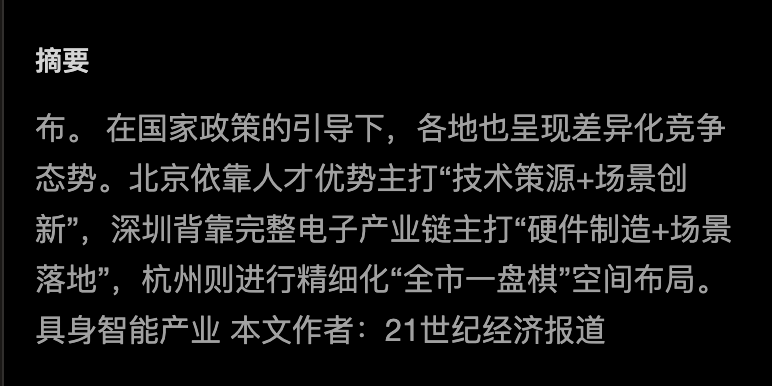
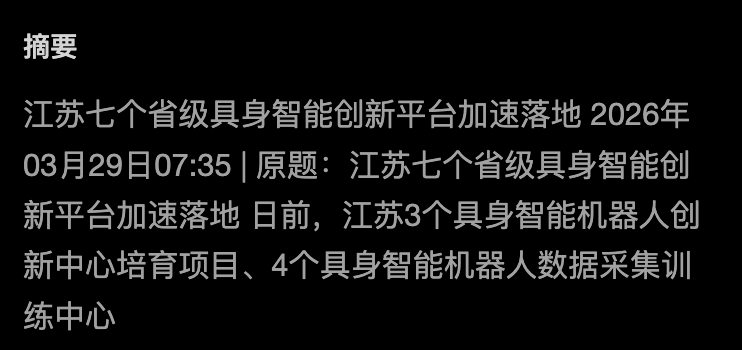
feat: 使用LLM生成资讯摘要，优化列表页显示逻辑

Changed region(s): [[0.0, 0.0, 0.9609, 1.0]]

diff --git a/server/src/modules/news/news.controller.ts b/server/src/modules/news/news.controller.ts
@@ -183,13 +183,27 @@ export class NewsController {
           {
             role: 'user' as const,
             content: `标题：${title}
-摘要：${summary || '暂无摘要'}
 
-请生成详细内容分析：`
+请生成内容分析：`
           }
         ];
         
         const response = await llmClient.invoke(messages, { temperature: 0.7 });
+        
+        // 解析LLM返回的JSON
+        let llmSummary = summary || '';
+        let llmContent = response.content;
+        
+        try {
+          const jsonMatch = response.content.match(/\{[\s\S]*\}/);
+          if (jsonMatch) {
+            const parsed = JSON.parse(jsonMatch[0]);
+            llmSummary = parsed.summary || summary || '';
+            llmContent = parsed.content || response.content;
+          }
+        } catch (parseError) {
+          console.error('Parse LLM response error:', parseError);
+        }
         
         const relatedNews = await this.getRelatedNews(title);
         
@@ -199,8 +213,8 @@ export class NewsController {
           source: '行业资讯',
           publishTime: new Date().toISOString().split('T')[0],
           category: category || 'policy',
-          summary: summary || '',
-          content: response.content,
+          summary: llmSummary,
+          content: llmContent,
           relatedNews
         };
       } catch (error) {
@@ -224,14 +238,18 @@ export class NewsController {
   // 根据分类获取不同的系统提示词（原文内容不需要包含八维通分析）
   private getSystemPrompt(category: string): string {
     return `你是一位专业的具身智能和空间智能领域分析师。
-请根据提供的资讯标题和摘要，生成详细的内容解读。
+请根据提供的资讯标题，生成专业的内容分析。
 
-输出要求：
-1. 直接输出资讯解读内容，不要添加任何标题或前缀
-2. 包含背景、主要内容和行业影响分析（200-300字）
-3. 不要使用 Markdown 格式，直接输出纯文本
-4. 语言要专业、客观
-5. 不要包含针对特定公司的分析或建议`;
+请直接输出JSON格式，不要包含代码块标记：
+{
+  "summary": "50-80字的简要总结，概括核心要点",
+  "content": "200-300字的详细解读，包含背景、主要内容和行业影响"
+}
+
+要求：
+1. summary必须是独立的归纳总结，不是截取原文片段
+2. 内容要专业、客观，不要针对特定公司分析
+3. 不要使用Markdown格式，输出纯文本`;
   }
 
   private async getRelatedNews(currentTitle: string): Promise<Array<{ id: string; title: string; source: string; publishTime: string }>> {

diff --git a/src/pages/index/index.tsx b/src/pages/index/index.tsx
@@ -136,6 +136,19 @@ const IndexPage: FC = () => {
     return dateStr
   }
 
+  // 判断摘要是否为残缺片段（需要隐藏）
+  const isIncompleteSnippet = (summary: string): boolean => {
+    if (!summary || summary.length < 20) return true
+    
+    // 开头是标点符号，说明是截断的片段
+    if (/^[。！？；：，、.]/.test(summary)) return true
+    
+    // 开头是残缺的词语（1-2个字+标点）
+    if (/^[\u4e00-\u9fa5]{1,2}[。！？；：，、]/.test(summary)) return true
+    
+    return false
+  }
+
   const getTodayDate = () => {
     const now = new Date()
     const weekDays = ['日', '一', '二', '三', '四', '五', '六']
@@ -217,10 +230,12 @@ const IndexPage: FC = () => {
                     {news.title}
                   </Text>
                   
-                  {/* Summary */}
-                  <Text className="text-neutral-500 text-sm mb-3 line-clamp-2 leading-relaxed">
-                    {news.summary}
-                  </Text>
+                  {/* Summary - 只显示完整的摘要，隐藏截断片段 */}
+                  {news.summary && !isIncompleteSnippet(news.summary) && (
+                    <Text className="text-neutral-500 text-sm mb-3 line-clamp-2 leading-relaxed">
+                      {news.summary}
+                    </Text>
+                  )}
                   
                   {/* Meta */}
                   <View className="flex items-center justify-between">
